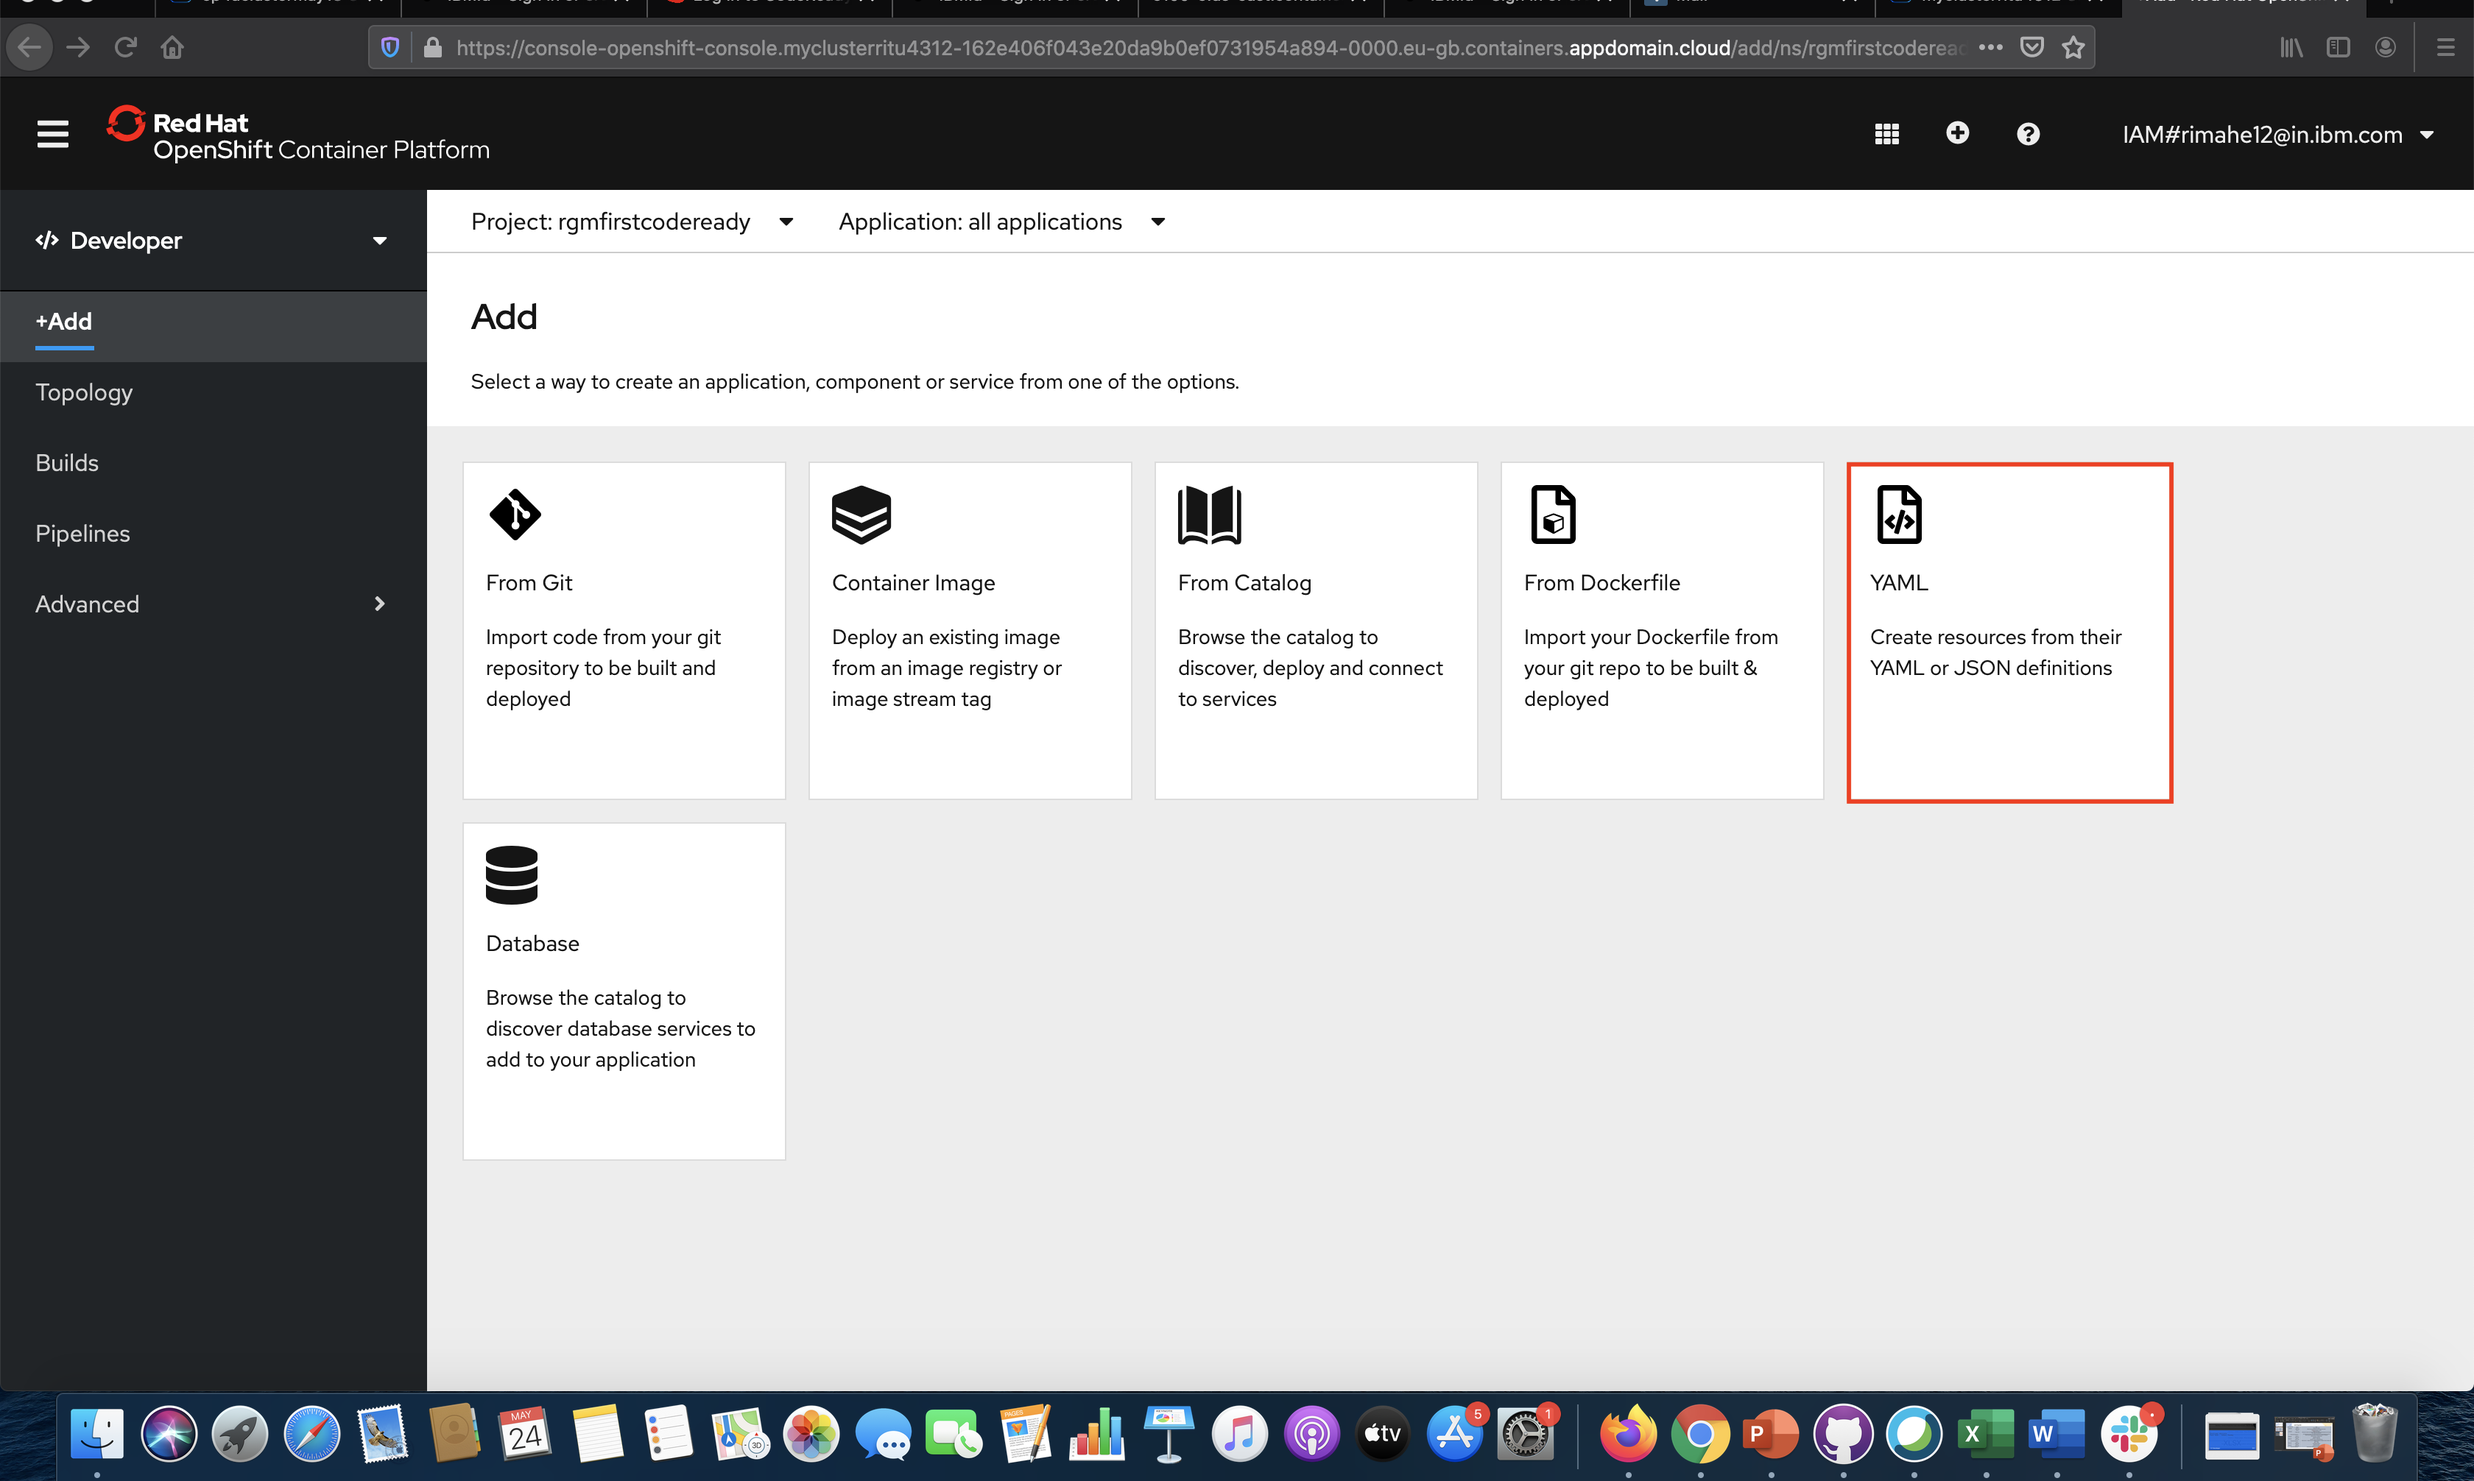
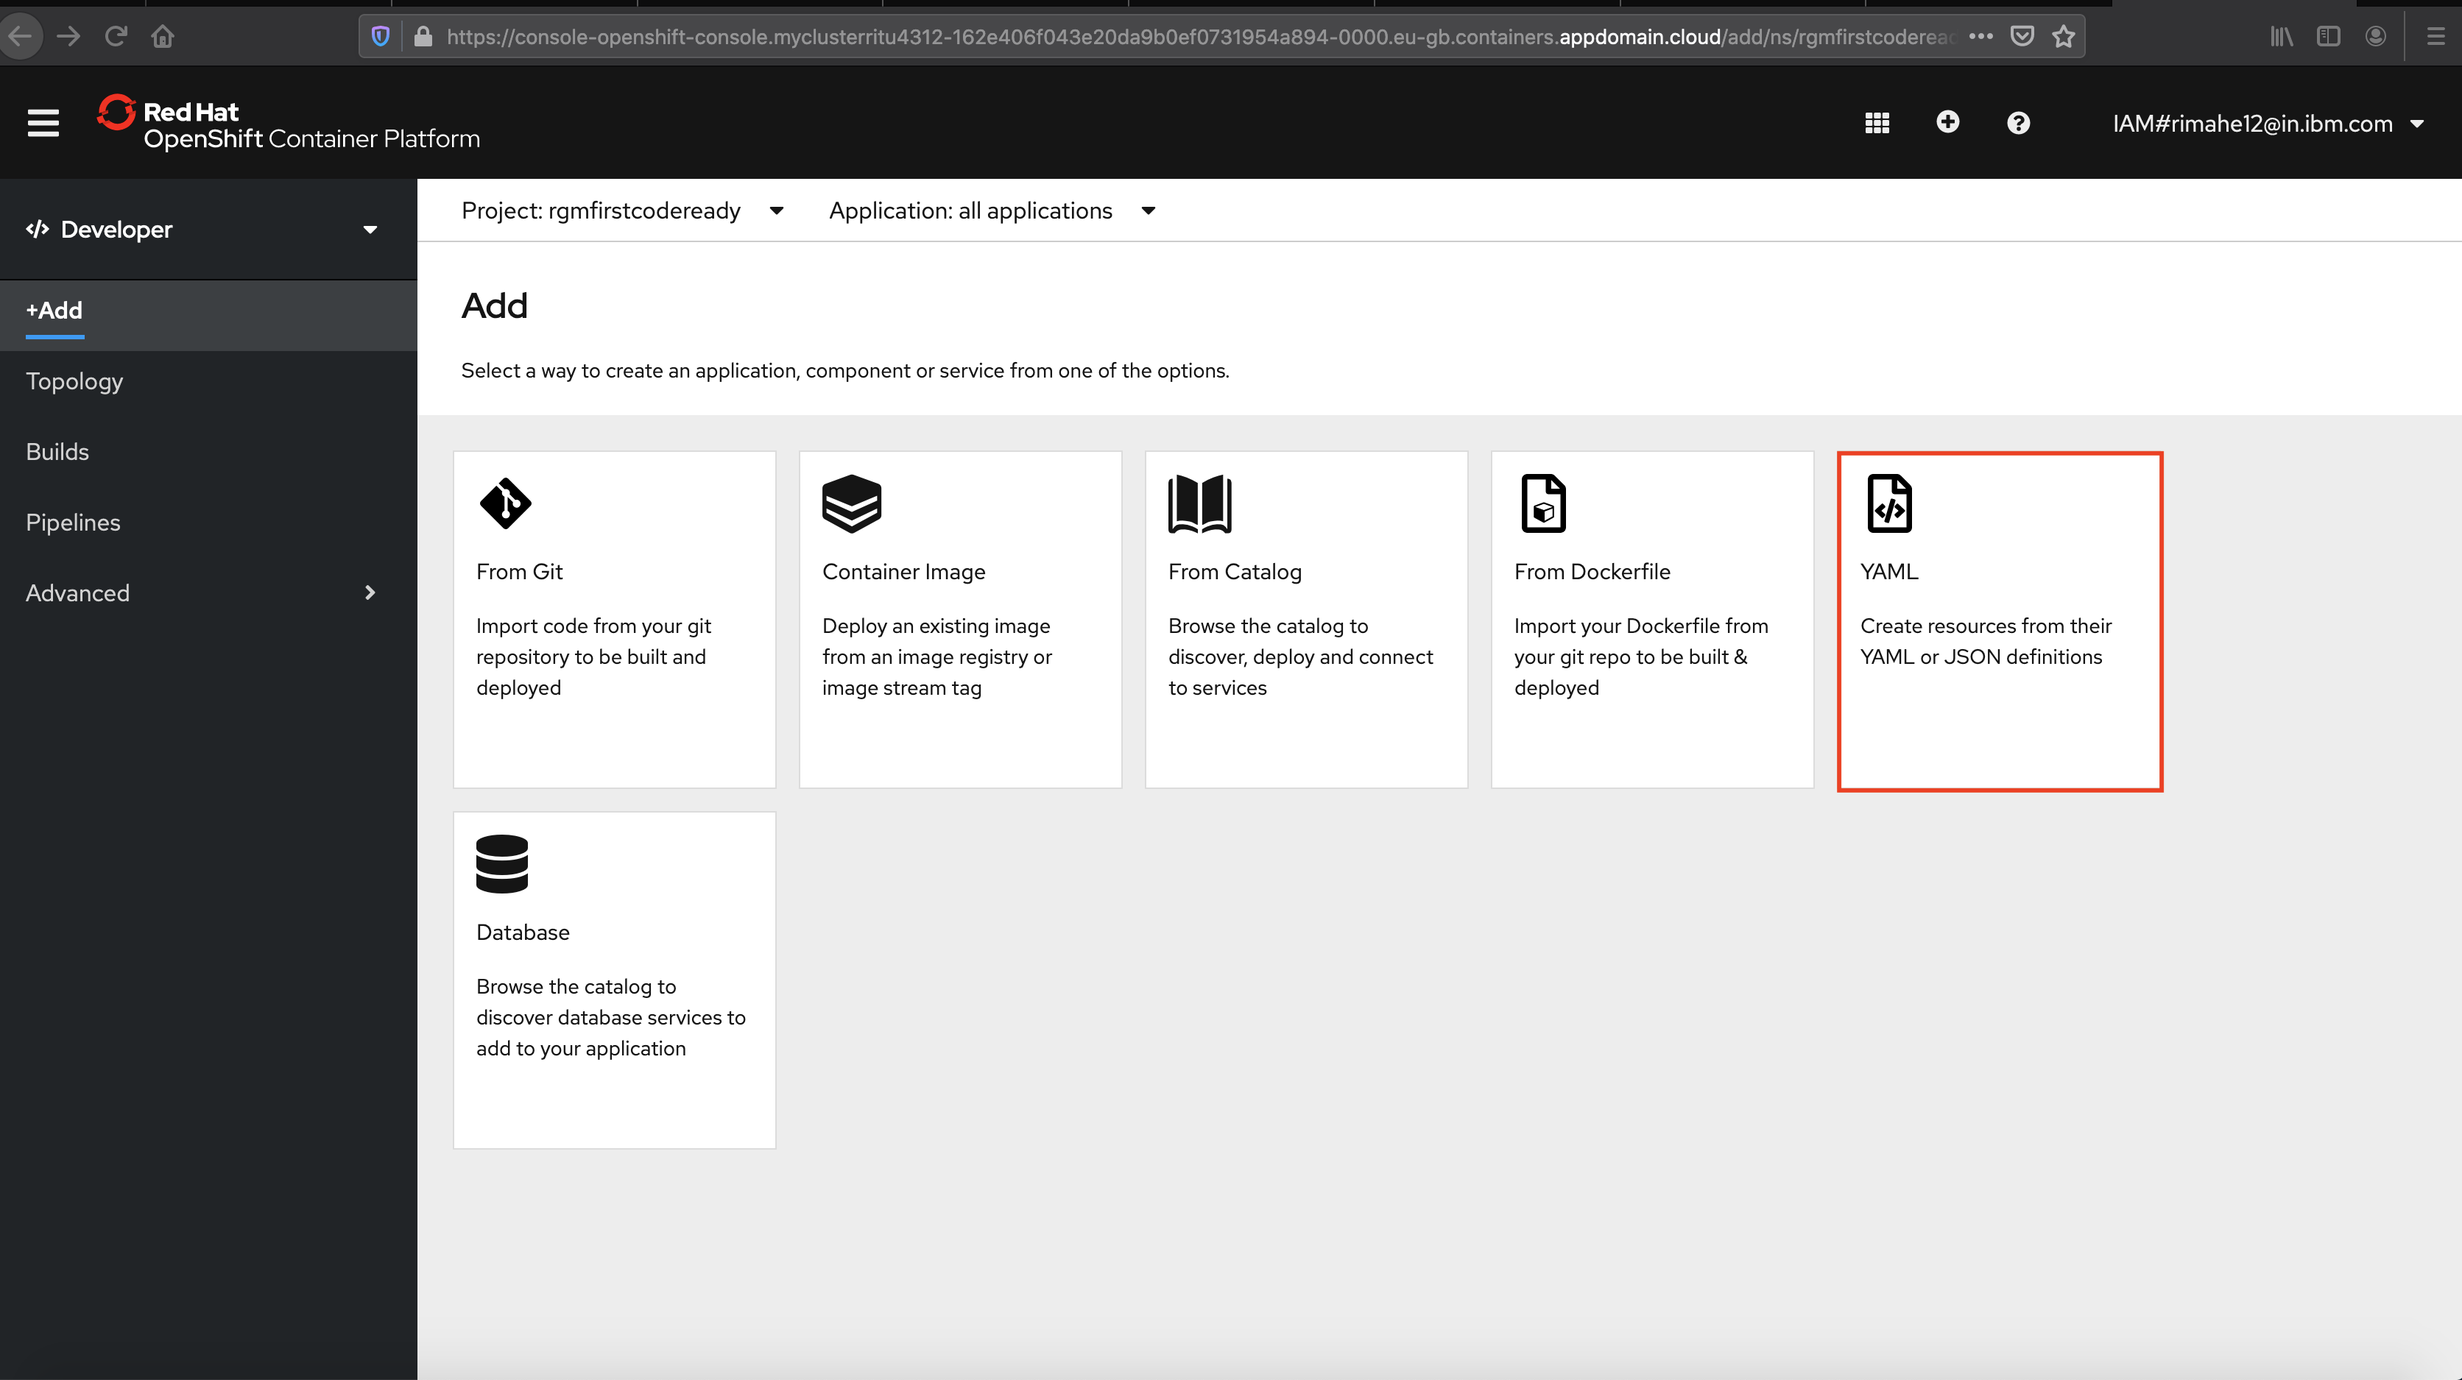
Updated README.md

diff --git a/OpenShift4Lab/README.md b/OpenShift4Lab/README.md
@@ -67,13 +67,13 @@ Once there you will see two files: **deployment.yaml** and **service.yaml**
 
 _Drag and Drop_ the **deployment.yaml** file first.
 
-![importYAML](images/Pic3.png)
+![importYAML](images/Pic4.png)
 
 _Click_ **Create** and you will see a new **greetings** deployment in the console.
 
 For **Creating a Service** we are going to repeat the steps of **importing a YAML** just like a deployment, but instead of the **deployment.yaml** we will _Drag and Drop_ the **service.yaml**.
 
-![service](images/Pic3.png)
+![service](images/Pic4.png)
 
 After Creating the Service let’s navigate to the **Services** page to view it.
 
